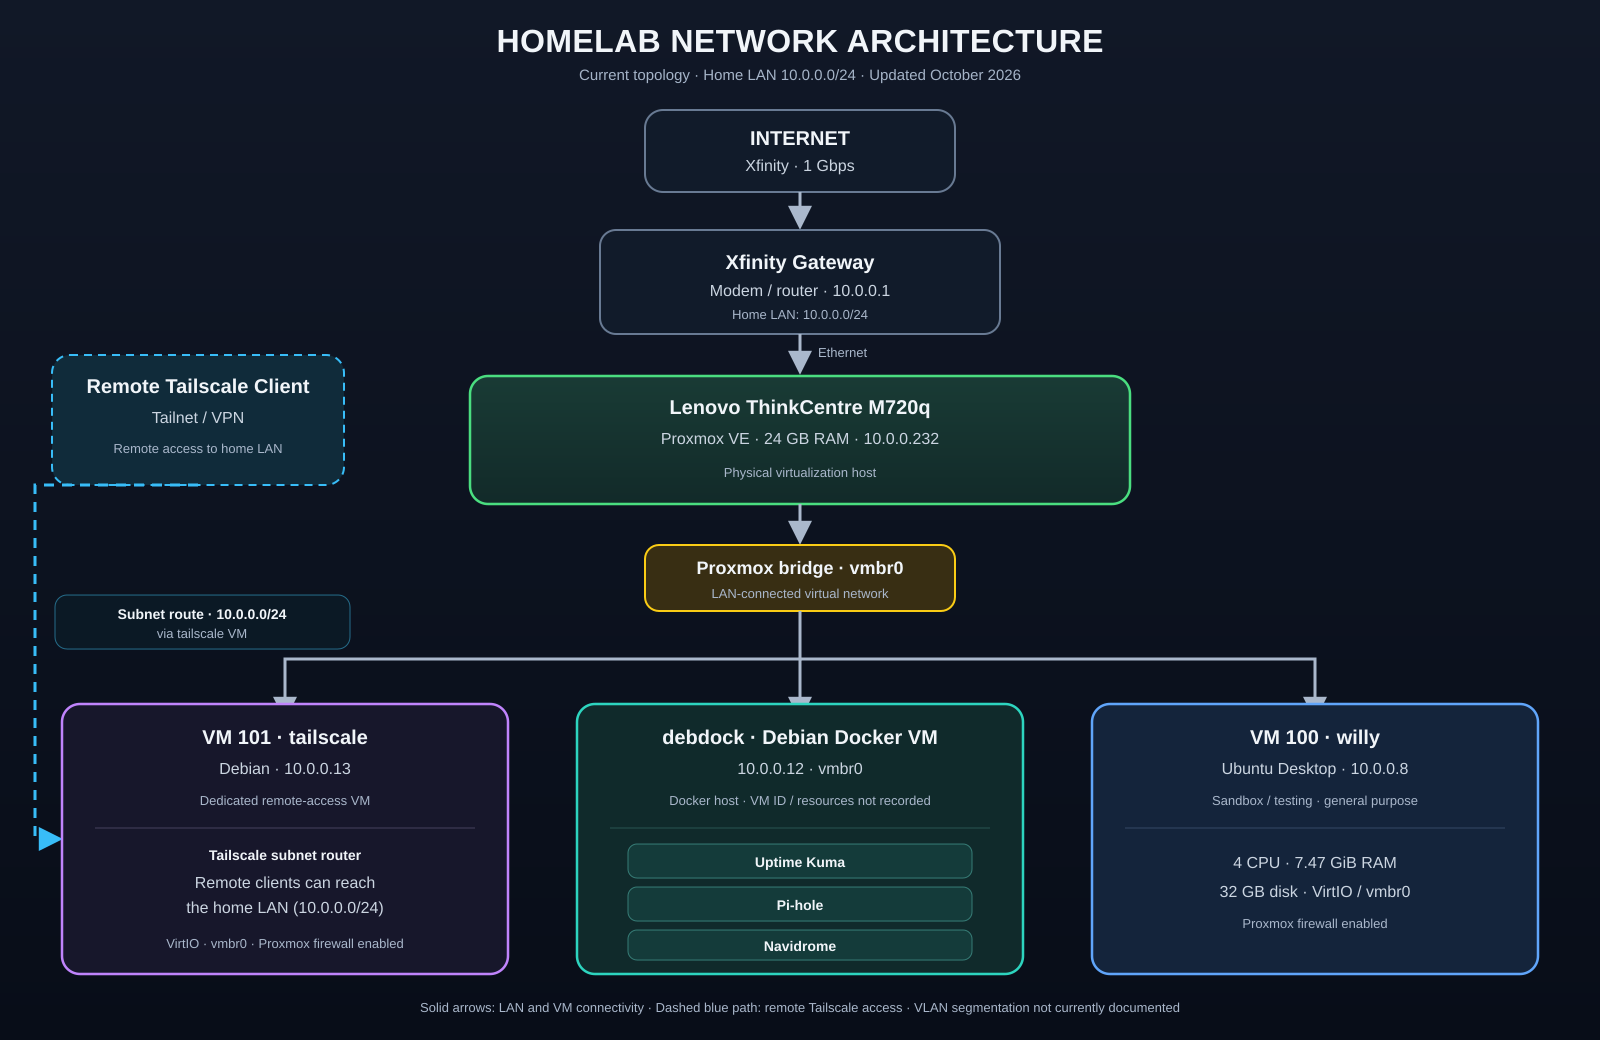
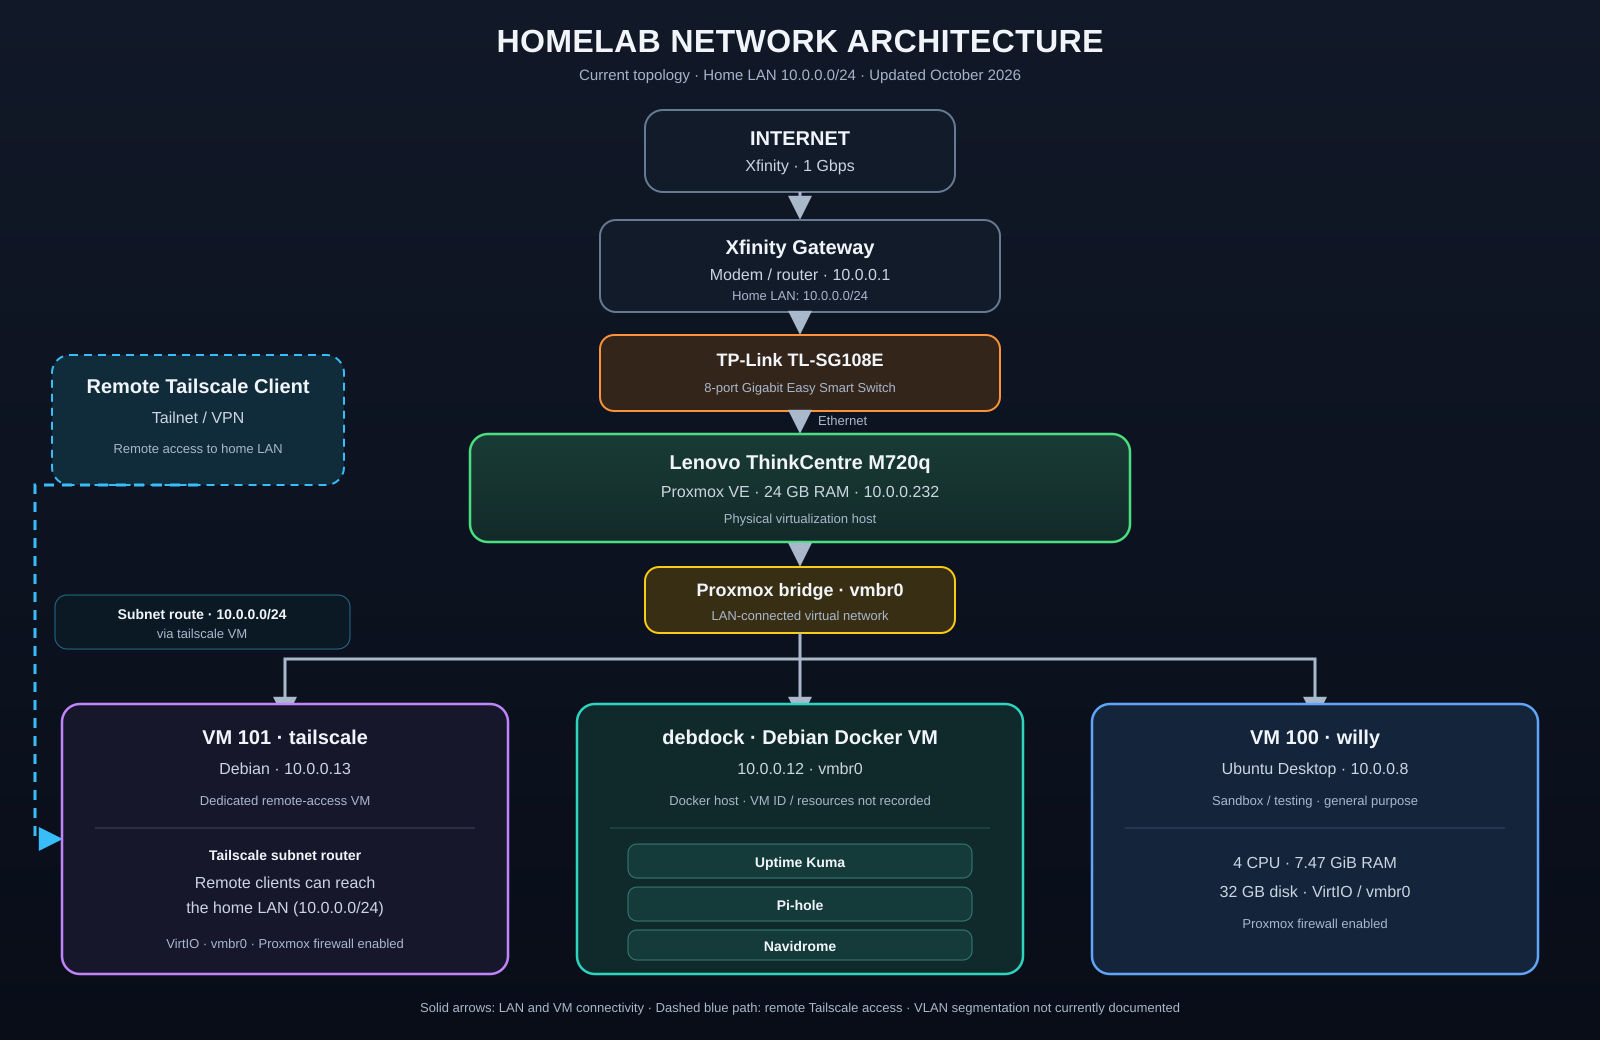
Add smart switch to homelab topology

Changed region(s): [[0.2812, 0.1846, 0.7188, 0.6154]]

diff --git a/architecture/README.md b/architecture/README.md
@@ -6,13 +6,14 @@ This directory contains the current physical and logical architecture of the hom
 
 ![Current homelab network architecture](./network-diagram.png)
 
-The Xfinity gateway provides the `10.0.0.0/24` home LAN. The Lenovo ThinkCentre M720q runs Proxmox VE and connects its virtual machines to that LAN through `vmbr0`. Three active VMs are documented: `tailscale` (`10.0.0.13`), `debdock` (`10.0.0.12`), and `willy` (`10.0.0.8`). The Docker VM `debdock` hosts Uptime Kuma, Pi-hole, and Navidrome. Tailscale provides remote access to the home LAN.
+The Xfinity gateway provides the `10.0.0.0/24` home LAN and connects through a TP-Link TL-SG108E 8-port Gigabit smart switch to the Lenovo ThinkCentre M720q running Proxmox VE. Proxmox connects its virtual machines to the LAN through `vmbr0`. Three active VMs are documented: `tailscale` (`10.0.0.13`), `debdock` (`10.0.0.12`), and `willy` (`10.0.0.8`). The Docker VM `debdock` hosts Uptime Kuma, Pi-hole, and Navidrome. Tailscale provides remote access to the home LAN. Switch management and VLAN configuration are not yet documented.
 
 The diagram is also available as an editable [draw.io file](./homelab-network-diagram-fixed.drawio) and as an [SVG source](./network-diagram.svg).
 
 ## Current components
 
 - Xfinity 1 Gbps Internet and modem/router (`10.0.0.1`)
+- TP-Link TL-SG108E 8-port Gigabit Easy Smart Switch between the gateway and Proxmox host
 - Lenovo ThinkCentre M720q running Proxmox VE with 24 GB RAM (`10.0.0.232`)
 - Proxmox Linux bridge `vmbr0` on `10.0.0.0/24`
 - Debian VM `tailscale` for remote access

diff --git a/networking/README.md b/networking/README.md
@@ -14,12 +14,15 @@ The current network consists of:
 
 * Xfinity 1 Gbps Internet connection
 * Xfinity modem/router
+* TP-Link TL-SG108E 8-port Gigabit Easy Smart Switch between the router and Proxmox host
 * Lenovo ThinkCentre M720q Proxmox host
 * Proxmox virtual networking
 * Debian `tailscale` VM (`10.0.0.13`)
 * Debian Docker VM `debdock` (`10.0.0.12`)
 * Ubuntu Desktop VM `willy` (`10.0.0.8`)
 * Tailscale for remote access
+
+The switch's management address and VLAN configuration have not yet been recorded.
 
 ## Current Topology
 
